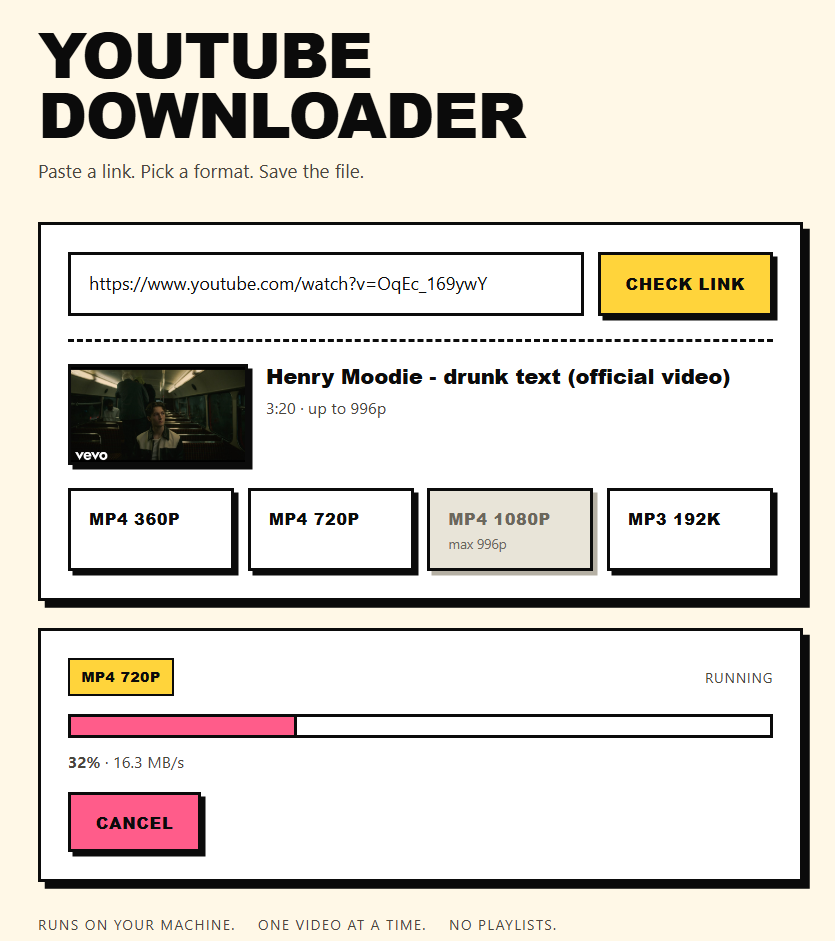
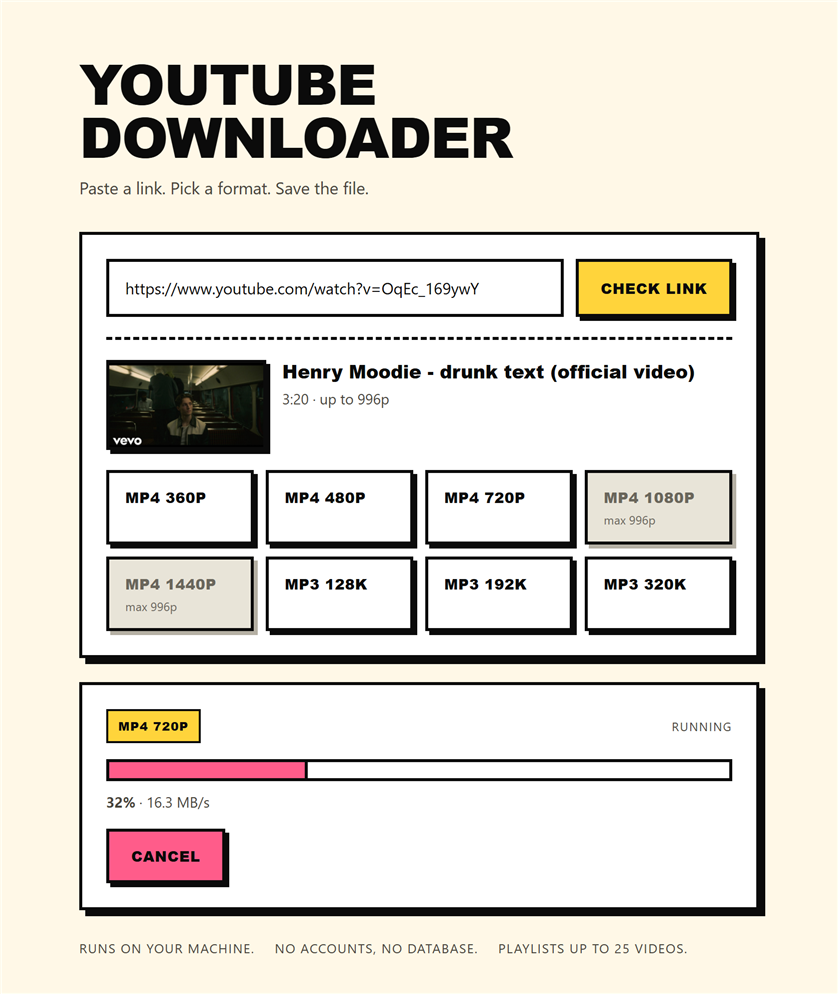
feat: add 480p, 1440p, and MP3 bitrate presets
480p fills the gap between 360p and 720p, and 1440p is the top of the ladder: YouTube rarely ships H.264 above 1080p, so the UI warns that the MP4 is usually VP9/AV1. MP3 now offers 128 and 320 alongside 192, with the bitrate passed to ffmpeg per preset.

Changed region(s): [[0.0311, 0.0308, 0.9964, 0.9862]]

diff --git a/src/youtube_downloader/templates/partials/playlist_preview.html b/src/youtube_downloader/templates/partials/playlist_preview.html
@@ -38,5 +38,7 @@
     Downloads run one after another, then arrive as a single ZIP.
     {% if preview.truncated %}Only the first {{ preview.items | length }} videos are
     included.{% endif %}
+    Higher resolutions make much larger batches: 25 items at 1440p can need
+    tens of GB of free space.
   </p>
 </section>

diff --git a/src/youtube_downloader/templates/partials/preview.html b/src/youtube_downloader/templates/partials/preview.html
@@ -45,4 +45,11 @@
       </button>
     {% endfor %}
   </form>
+
+  {% if preview.max_height and preview.max_height > 1080 %}
+    <p class="hint">
+      Above 1080p YouTube usually serves VP9/AV1. The file is still MP4, but
+      older desktop players may not open it.
+    </p>
+  {% endif %}
 </section>

diff --git a/tests/test_youtube.py b/tests/test_youtube.py
@@ -2,6 +2,7 @@ import pytest
 
 from youtube_downloader.services.youtube import (
     MAX_BATCH_ITEMS,
+    PRESETS,
     InvalidUrl,
     PlaylistTarget,
     PresetKind,
@@ -75,24 +76,60 @@ def test_watch_url_is_canonical():
     assert watch_url(VIDEO_ID) == f"https://www.youtube.com/watch?v={VIDEO_ID}"
 
 
-def test_video_selector_prefers_h264_then_falls_back():
-    selector = format_selector(preset_by_key("mp4-720"))
+@pytest.mark.parametrize(
+    ("preset_key", "height"),
+    [
+        ("mp4-360", 360),
+        ("mp4-480", 480),
+        ("mp4-720", 720),
+        ("mp4-1080", 1080),
+        ("mp4-1440", 1440),
+    ],
+)
+def test_video_selector_prefers_h264_then_falls_back(preset_key, height):
+    selector = format_selector(preset_by_key(preset_key))
 
     assert selector == (
-        "bestvideo[height<=720][vcodec^=avc1]+bestaudio[ext=m4a]"
-        "/bestvideo[height<=720]+bestaudio"
-        "/best[height<=720]"
+        f"bestvideo[height<={height}][vcodec^=avc1]+bestaudio[ext=m4a]"
+        f"/bestvideo[height<={height}]+bestaudio"
+        f"/best[height<={height}]"
     )
 
 
-def test_audio_selector_ignores_height():
-    assert format_selector(preset_by_key("mp3-192")) == "bestaudio[ext=m4a]/bestaudio/best"
+@pytest.mark.parametrize("preset_key", ["mp3-128", "mp3-192", "mp3-320"])
+def test_audio_selector_ignores_height(preset_key):
+    selector = format_selector(preset_by_key(preset_key))
+
+    assert selector == "bestaudio[ext=m4a]/bestaudio/best"
 
 
 def test_preset_extensions():
     assert preset_by_key("mp4-360").extension == "mp4"
+    assert preset_by_key("mp4-480").extension == "mp4"
+    assert preset_by_key("mp4-1440").extension == "mp4"
+    assert preset_by_key("mp3-128").extension == "mp3"
     assert preset_by_key("mp3-192").extension == "mp3"
+    assert preset_by_key("mp3-320").extension == "mp3"
     assert preset_by_key("mp3-192").kind == PresetKind.AUDIO
+
+
+def test_preset_ladder_pairs_video_heights_with_audio_bitrates():
+    assert [preset.key for preset in PRESETS] == [
+        "mp4-360",
+        "mp4-480",
+        "mp4-720",
+        "mp4-1080",
+        "mp4-1440",
+        "mp3-128",
+        "mp3-192",
+        "mp3-320",
+    ]
+    assert [
+        preset.height for preset in PRESETS if preset.kind == PresetKind.VIDEO
+    ] == [360, 480, 720, 1080, 1440]
+    assert [
+        preset.bitrate for preset in PRESETS if preset.kind == PresetKind.AUDIO
+    ] == [128, 192, 320]
 
 
 def test_unknown_preset_is_rejected():
@@ -114,13 +151,24 @@ def test_short_video_disables_taller_presets_without_hiding_them():
     presets = {preset.key: preset for preset in available_presets(_preview(480))}
 
     assert presets["mp4-360"].available is True
+    assert presets["mp4-480"].available is True
     assert presets["mp4-720"].available is False
     assert presets["mp4-1080"].available is False
+    assert presets["mp4-1440"].available is False
+    assert presets["mp3-128"].available is True
     assert presets["mp3-192"].available is True
+    assert presets["mp3-320"].available is True
 
 
-def test_full_hd_video_enables_every_preset():
-    assert all(preset.available for preset in available_presets(_preview(1080)))
+def test_full_hd_video_disables_1440p():
+    presets = {preset.key: preset for preset in available_presets(_preview(1080))}
+
+    assert presets["mp4-1080"].available is True
+    assert presets["mp4-1440"].available is False
+
+
+def test_1440_video_enables_every_preset():
+    assert all(preset.available for preset in available_presets(_preview(1440)))
 
 
 def test_unknown_height_leaves_presets_available():

diff --git a/tests/test_routes.py b/tests/test_routes.py
@@ -11,6 +11,7 @@ from fakes import PLAYLIST_ID, FakeDownloader, ManualExecutor
 from youtube_downloader.app import create_app
 from youtube_downloader.config import Settings
 from youtube_downloader.services.downloader import DownloadError
+from youtube_downloader.services.youtube import RawPreview
 
 VIDEO_URL = "https://www.youtube.com/watch?v=dQw4w9WgXcQ"
 VIDEO_ID = "dQw4w9WgXcQ"
@@ -80,7 +81,12 @@ def test_preview_renders_metadata_and_presets(client_factory):
     assert "Test video" in response.text
     assert "3:42" in response.text
     assert "MP4 360p" in response.text
+    assert "MP4 480p" in response.text
+    assert "MP4 1440p" in response.text
+    assert "MP3 128k" in response.text
     assert "MP3 192k" in response.text
+    assert "MP3 320k" in response.text
+    assert "VP9/AV1" not in response.text
 
 
 def test_preview_keeps_taller_presets_visible_but_disabled(client_factory):
@@ -89,7 +95,27 @@ def test_preview_keeps_taller_presets_visible_but_disabled(client_factory):
     response = client.post("/preview", data={"url": VIDEO_URL})
 
     assert "max 720p" in response.text
-    assert 'value="mp4-1080" disabled' in " ".join(response.text.split())
+    compact = " ".join(response.text.split())
+    assert 'value="mp4-1080" disabled' in compact
+    assert 'value="mp4-1440" disabled' in compact
+
+
+def test_preview_warns_about_the_codec_above_1080p(client_factory):
+    downloader = FakeDownloader(
+        RawPreview(
+            video_id=VIDEO_ID,
+            title="Tall video",
+            duration_seconds=60,
+            thumbnail_url=None,
+            heights=(1080, 1440),
+        )
+    )
+    client, _, _ = client_factory(downloader)
+
+    response = client.post("/preview", data={"url": VIDEO_URL})
+
+    assert "VP9/AV1" in response.text
+    assert 'value="mp4-1440" disabled' not in " ".join(response.text.split())
 
 
 def test_preview_rejects_non_youtube_links(client_factory):
@@ -137,10 +163,11 @@ def test_finished_job_offers_the_file_and_stops_polling(client_factory):
     assert "hx-trigger" not in response.text
 
 
-def test_preset_above_the_video_height_is_refused(client_factory):
+@pytest.mark.parametrize("preset", ["mp4-1080", "mp4-1440"])
+def test_preset_above_the_video_height_is_refused(client_factory, preset):
     client, _, _ = client_factory()
 
-    response, job_id = _start_job(client, preset="mp4-1080", max_height="720")
+    response, job_id = _start_job(client, preset=preset, max_height="720")
 
     assert response.status_code == 409
     assert job_id is None
@@ -229,6 +256,8 @@ def test_playlist_preview_lists_items_and_offers_every_preset(client_factory):
     assert "First song" in response.text
     assert "Third song" in response.text
     assert downloader.playlist_calls == [PLAYLIST_ID]
+    assert "MP3 320k" in response.text
+    assert "tens of GB" in response.text
     assert "disabled" not in response.text
 
 

diff --git a/tests/test_downloader.py b/tests/test_downloader.py
@@ -180,7 +180,10 @@ def test_a_full_stream_still_reads_as_incomplete_until_the_job_is_done(downloade
     assert [progress.percent for progress in seen] == [99.0, 99.0]
 
 
-@pytest.mark.parametrize(("preset_key", "expected"), [("mp4-720", 2), ("mp3-192", 1)])
+@pytest.mark.parametrize(
+    ("preset_key", "expected"),
+    [("mp4-720", 2), ("mp4-1440", 2), ("mp3-192", 1)],
+)
 def test_presets_declare_how_many_streams_they_download(
     downloader, monkeypatch, tmp_path, preset_key, expected
 ):
@@ -218,6 +221,43 @@ def test_presets_declare_how_many_streams_they_download(
     )
 
     assert captured["streams"] == expected
+
+
+@pytest.mark.parametrize("preset_key", ["mp3-128", "mp3-192", "mp3-320"])
+def test_audio_preset_passes_its_bitrate_to_ffmpeg(
+    downloader, monkeypatch, tmp_path, preset_key
+):
+    preset = preset_by_key(preset_key)
+    destination = tmp_path / "out"
+    destination.mkdir()
+    produced = destination / f"Video [dQw4w9WgXcQ] {preset_key}.{preset.extension}"
+    produced.write_bytes(b"data")
+    captured: dict = {}
+
+    class FakeYdl:
+        def __init__(self, options):
+            captured.update(options)
+
+        def __enter__(self):
+            return self
+
+        def __exit__(self, *_exc):
+            return False
+
+        def extract_info(self, _url, download=False):
+            return {"requested_downloads": [{"filepath": str(produced)}]}
+
+    monkeypatch.setattr(downloader_module.yt_dlp, "YoutubeDL", FakeYdl)
+
+    downloader.download(
+        "dQw4w9WgXcQ", preset, destination, lambda _progress: None, lambda: False
+    )
+
+    assert captured["postprocessors"][0] == {
+        "key": "FFmpegExtractAudio",
+        "preferredcodec": "mp3",
+        "preferredquality": str(preset.bitrate),
+    }
 
 
 def test_progress_hook_raises_when_cancelled(downloader):

diff --git a/src/youtube_downloader/services/youtube.py b/src/youtube_downloader/services/youtube.py
@@ -146,6 +146,7 @@ class Preset:
     label: str
     kind: PresetKind
     height: int | None = None
+    bitrate: int | None = None
     available: bool = True
 
     @property
@@ -155,9 +156,13 @@ class Preset:
 
 PRESETS: tuple[Preset, ...] = (
     Preset("mp4-360", "MP4 360p", PresetKind.VIDEO, height=360),
+    Preset("mp4-480", "MP4 480p", PresetKind.VIDEO, height=480),
     Preset("mp4-720", "MP4 720p", PresetKind.VIDEO, height=720),
     Preset("mp4-1080", "MP4 1080p", PresetKind.VIDEO, height=1080),
-    Preset("mp3-192", "MP3 192k", PresetKind.AUDIO),
+    Preset("mp4-1440", "MP4 1440p", PresetKind.VIDEO, height=1440),
+    Preset("mp3-128", "MP3 128k", PresetKind.AUDIO, bitrate=128),
+    Preset("mp3-192", "MP3 192k", PresetKind.AUDIO, bitrate=192),
+    Preset("mp3-320", "MP3 320k", PresetKind.AUDIO, bitrate=320),
 )
 
 PRESETS_BY_KEY = {preset.key: preset for preset in PRESETS}
@@ -284,6 +289,10 @@ def format_selector(preset: Preset) -> str:
     H.264 + AAC first so the file plays in Windows Media Player, QuickTime,
     phones, and editors; then any codec; then a progressive stream as a last
     resort for videos that only ship one.
+
+    Above 1080p YouTube rarely ships H.264, so the fallback usually picks
+    VP9/AV1 while the container stays MP4. The preset is a ceiling, not a
+    promise of an exact height or codec.
     """
     if preset.kind == PresetKind.AUDIO:
         return "bestaudio[ext=m4a]/bestaudio/best"

diff --git a/src/youtube_downloader/services/downloader.py b/src/youtube_downloader/services/downloader.py
@@ -376,7 +376,11 @@ class YtDlpDownloader:
         if preset.kind == PresetKind.AUDIO:
             options["writethumbnail"] = True
             options["postprocessors"] = [
-                {"key": "FFmpegExtractAudio", "preferredcodec": "mp3", "preferredquality": "192"},
+                {
+                    "key": "FFmpegExtractAudio",
+                    "preferredcodec": "mp3",
+                    "preferredquality": str(preset.bitrate or 192),
+                },
                 {"key": "FFmpegMetadata"},
                 {"key": "EmbedThumbnail"},
             ]

diff --git a/README.md b/README.md
@@ -4,7 +4,7 @@
 
 A local web app that turns a YouTube link — a video or a playlist — into files you can actually play: pick a resolution or an MP3 bitrate, watch the progress bar, save the result. A single local user, no accounts, no database.
 
-**Status:** v1.0.0. Single videos, playlists up to 25 items, in-place retry of failed items, and one ZIP per playlist. Local-only by design.
+**Status:** v1.1.0. Single videos, playlists up to 25 items, MP4 360p–1440p or MP3 128/192/320, in-place retry of failed items, and one ZIP per playlist. Local-only by design.
 
 <p align="center">
   <img
@@ -57,7 +57,7 @@ then hands you a single ZIP.
 <p align="center">
   <img
     src="docs/screenshot_preview_progress_bar.png"
-    alt="The same page after a link is checked: a preview card with thumbnail, title, duration and up to 996p, four preset buttons with MP4 1080p disabled and labelled max 996p, and a job card showing MP4 720p, a pink progress bar at 32 percent with 16.3 MB/s, and a Cancel button"
+    alt="The same page after a link is checked: a preview card with thumbnail, title, duration and up to 996p, eight preset buttons with MP4 1080p and MP4 1440p disabled and labelled max 996p, and a job card showing MP4 720p, a pink progress bar at 32 percent with 16.3 MB/s, and a Cancel button"
     width="720"
   />
 </p>
@@ -68,10 +68,11 @@ job is.
 
 | Preset | What you get |
 | --- | --- |
-| `mp4-360` / `mp4-720` / `mp4-1080` | H.264 + AAC in an MP4, merged with ffmpeg. H.264 is preferred so the file plays in Windows Media Player, QuickTime, phones, and editors; other codecs are used only when H.264 is unavailable. |
-| `mp3-192` | MP3 at 192 kbps with ID3 tags and the thumbnail embedded as cover art. |
+| `mp4-360` / `mp4-480` / `mp4-720` / `mp4-1080` | H.264 + AAC in an MP4, merged with ffmpeg. H.264 is preferred so the file plays in Windows Media Player, QuickTime, phones, and editors; other codecs are used only when H.264 is unavailable. |
+| `mp4-1440` | An MP4 capped at 1440p. YouTube rarely ships H.264 above 1080p, so this is usually VP9/AV1 in an MP4: modern players handle it, older desktop players may not. |
+| `mp3-128` / `mp3-192` / `mp3-320` | MP3 at the chosen bitrate with ID3 tags and the thumbnail embedded as cover art. Source audio is usually AAC around 128 kbps or Opus around 160 kbps, so 320 is a size choice, not a quality upgrade. |
 
-Presets taller than the source video stay visible but disabled, labelled `max 720p`, so you can see the limit instead of guessing why a button is missing.
+Presets taller than the source video stay visible but disabled, labelled `max 720p`, so you can see the limit instead of guessing why a button is missing. A preset is a ceiling, not an exact height: a 360p request can deliver 240p when 360p is missing.
 
 ## Playlists
 
@@ -87,8 +88,8 @@ and duration for each — with the same preset buttons.
 - **Transient errors retry themselves.** A 403, an HTTP 429, or a dropped connection is tried up to three times — waiting 2 seconds, then 5 — before the item is marked failed. Items are also spaced two seconds apart so a long playlist does not look like abuse.
 - **`watch?v=…&list=…` is still one video.** Only a `/playlist` link starts a Batch, so a link copied from a video page never silently turns into 25 downloads.
 
-A 25-item video playlist can hold roughly 1 GB of temp files before the archive is
-built, so expect the disk to fill and clear as it runs.
+A 25-item playlist can hold several GB of temp files at 1080p and tens of GB at
+1440p before the archive is built, so expect the disk to fill and clear as it runs.
 
 <p align="center">
   <img
@@ -145,6 +146,8 @@ Install Node.js (or Deno) and restart; the app detects it automatically.
 ## Known limitations
 
 - **No channels** — a channel URL is not a playlist. Playlists are capped at 25 videos, all with one preset.
+- **No 4K** — the ladder stops at 1440p. A 25-item 2160p batch can need tens of GB, and the codec caveat is the same.
+- **Above 1080p is usually VP9/AV1** — the file is still MP4, but older desktop players may refuse it. This is a YouTube format limit, not a setting.
 - **No history and no database** — job state is in memory, so a restart drops whatever was in flight.
 - **Files are temporary** — the server deletes its copy after the browser has the file, and sweeps leftovers older than two hours at startup. A Batch archive is deleted the same way, which means it is gone once you have downloaded it.
 - **Not multi-user** — no auth, no per-user quotas.
@@ -170,10 +173,11 @@ templates/         Jinja2 + HTMX fragments, no build step
 static/            hand-written CSS, vendored htmx
 ```
 
-Three decisions are worth knowing before reading the code:
+Four decisions are worth knowing before reading the code:
 
 - **Jobs run in-process.** No Redis, no Celery, no database — see [`docs/adr/0001-in-process-jobs.md`](docs/adr/0001-in-process-jobs.md). The consequence is that cancellation is cooperative: Python cannot kill a thread, so the worker checks a flag on each progress hook.
 - **A Batch is one worker slot, not one Job per item** — see [`docs/adr/0002-batches.md`](docs/adr/0002-batches.md). Items run sequentially and produce a single archive.
+- **Presets are ceilings, not format strings** — see [`docs/adr/0003-presets.md`](docs/adr/0003-presets.md). Above 1080p YouTube usually serves VP9/AV1 even though the container stays MP4.
 - **`services/downloader.py` is the only yt-dlp import.** Everything else talks to the `Downloader` protocol. That seam is what keeps the suite offline and what would make swapping engines a local change.
 
 Vocabulary lives in [`GLOSSARY.md`](GLOSSARY.md): **Preview**, **Preset**, **Job**, **Batch**, **Playlist**.

diff --git a/docs/adr/0003-presets.md b/docs/adr/0003-presets.md
@@ -1,0 +1,11 @@
+# Presets: a short ladder, honest ceilings
+
+A **Preset** is the user-facing download target: MP4 360p, 480p, 720p, 1080p, or 1440p, or MP3 at 128, 192, or 320 kbps. It is not a yt-dlp format string; `services/youtube.py` translates it into one.
+
+## Decisions
+
+- **A height is a ceiling, not a promise.** The selector asks for `height<=N`, so a 360p preset can deliver 240p when 360p is missing. The Preview disables presets taller than the source instead of hiding them, and the note says `max Np` so the limit is visible.
+- **H.264 + AAC first, then any codec, then a progressive stream.** Up to 1080p this usually produces a file that plays in Windows Media Player, QuickTime, phones, and editors. Above 1080p YouTube rarely ships H.264, so 1440p is usually VP9/AV1 in an MP4. We do not transcode to H.264: it is slow, CPU-heavy, and loses quality. The 1440p preset carries a warning instead.
+- **1440p is the top of the ladder.** 2160p is not offered. A 25-item 4K batch can need tens of GB, and it inherits the same codec caveat. Adding it needs a disk guard first, not just another tuple.
+- **MP3 bitrate is a size choice, not a quality ladder.** YouTube's source audio is usually AAC around 128 kbps or Opus around 160 kbps. MP3 320 cannot add detail; it only makes the file larger. 128 exists for smaller files, 320 for players or settings that expect it.
+- **One preset per Batch.** A per-item picker would break the one-ZIP flow and add UI the queue does not need. The playlist form warns that high resolutions make much larger batches.
